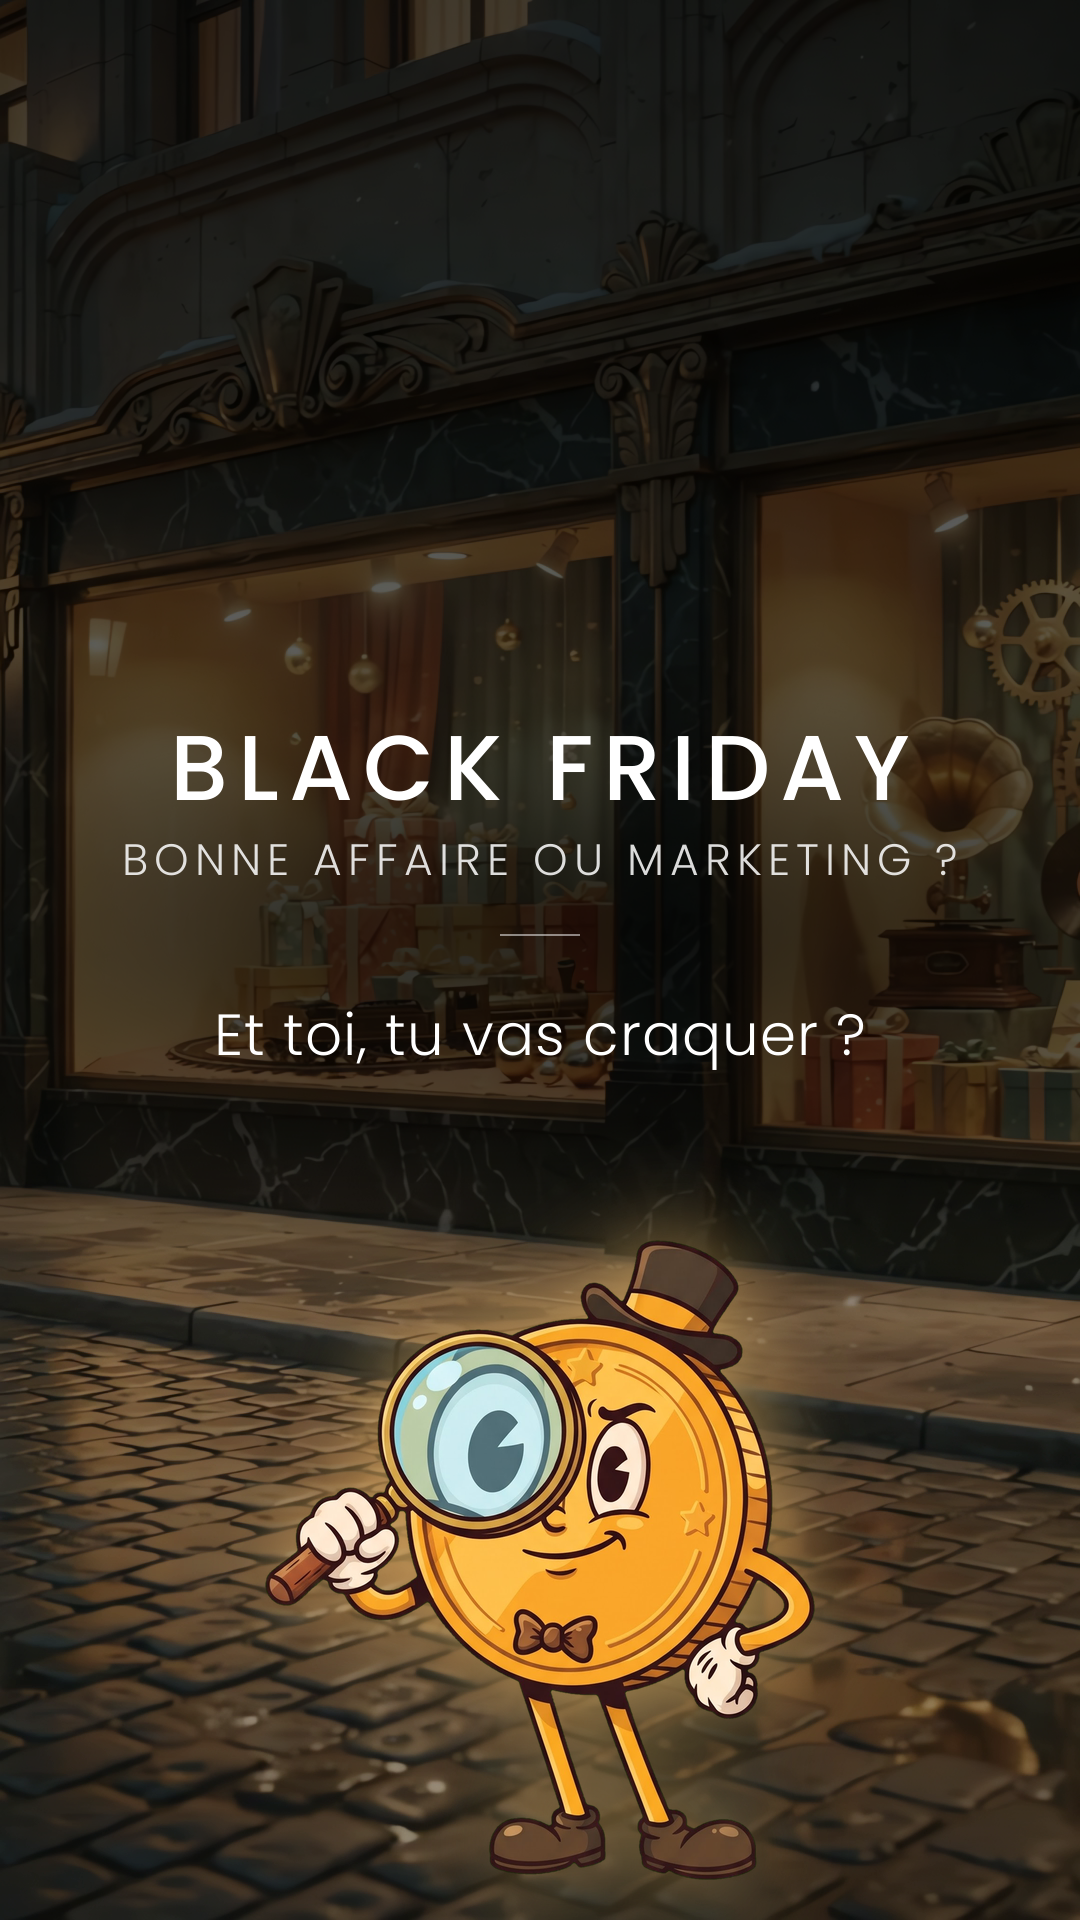
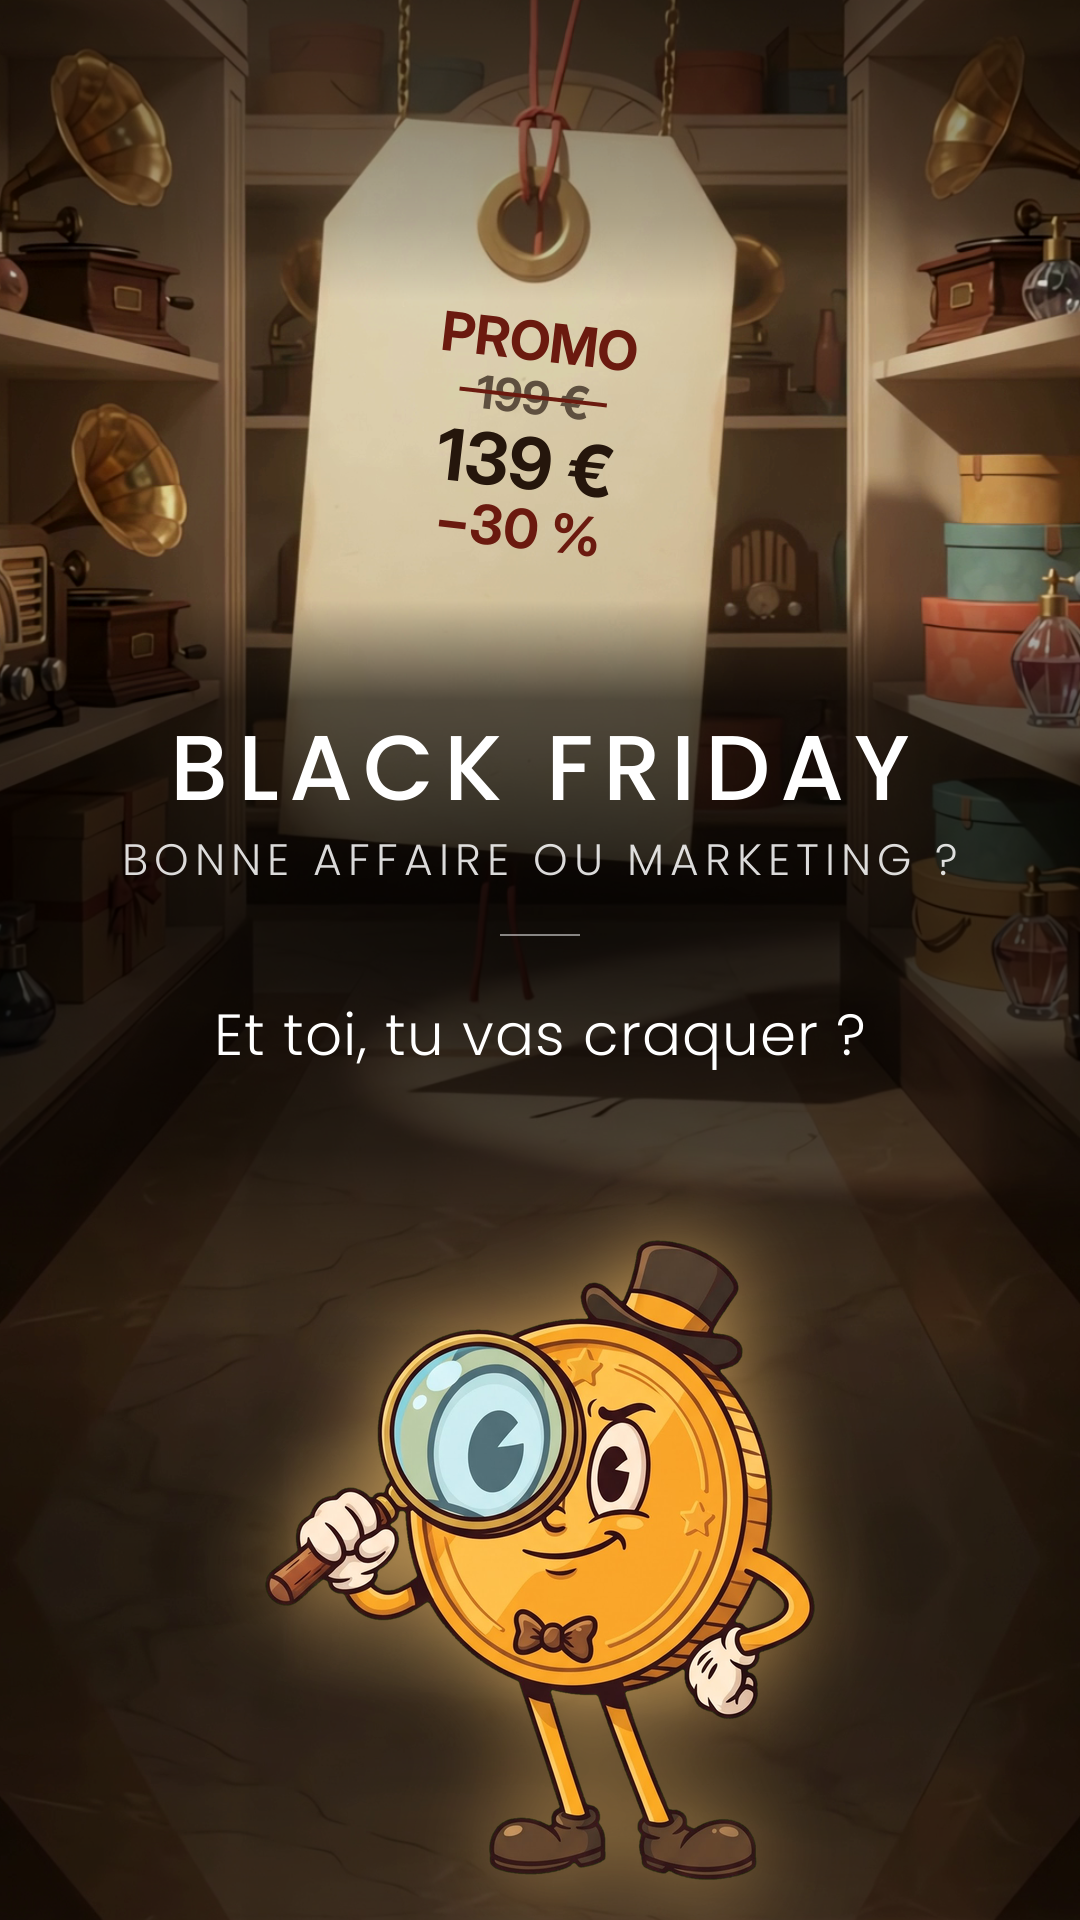
Black Friday : texte de l'étiquette attaché à son mouvement, marche de Mister Coin toujours vers l'avant, couverture sur le gros plan de l'étiquette
Claude-Session: https://claude.ai/code/session_01WbC6ATVQ9ekwYf3mZ5UyiW

diff --git a/episodes/2026-11-25_black_friday/video_col.py b/episodes/2026-11-25_black_friday/video_col.py
@@ -72,6 +72,8 @@ def decor_c(name, t):
     g = cv2.resize(cv2.cvtColor(f, cv2.COLOR_BGR2RGB), (W, H), interpolation=cv2.INTER_LANCZOS4).astype(np.float32)
     if name in ZOOM_TOP:                                                               # agrandi depuis le haut : le plateau descend sous les sous-titres
         z = ZOOM_TOP[name]; g = cv2.resize(g, (int(W*z), int(H*z)), interpolation=cv2.INTER_LINEAR); x0 = (g.shape[1]-W)//2; g = g[:H, x0:x0+W]
+    if name in ZOOM_BOTTOM:                                                            # agrandi depuis le bas : l'étiquette remonte au-dessus des sous-titres
+        z = ZOOM_BOTTOM[name]; g = cv2.resize(g, (int(W*z), int(H*z)), interpolation=cv2.INTER_LINEAR); x0 = (g.shape[1]-W)//2; g = g[g.shape[0]-H:, x0:x0+W]
     g = g+.2*(g-cv2.GaussianBlur(g, (0, 0), 1.0))                               # légère accentuation (décors déjà agrandis par Real-ESRGAN)
     return np.clip((g-128)*1.06+130, 0, 255)
 @functools.lru_cache(maxsize=1)
@@ -281,7 +283,7 @@ def _glass_bar(cv, t, t0, parts, cy=700, w=920, h=400, note=None, head=None):
             x += L*fr
         if note: S.text(kk, note, ww/2, hh-24, 'sb', 28, S.ICE, 'c', .8*ent(k-.6, .3))
     S.tp(cv, w, h, d, 540, cy+30*(1-ent(k, .45)), 'or', rx=round(.05+.25*(1-ent(k, .45)), 3), bev=30)
-LETTERBOX = {}; ZOOM_TOP = {'enquete': 1.06}; NMAX = {'enquete': 140}       # bureau : on s'arrête avant que le travelling ne descende le plateau trop bas                                # décors sortis en paysage à recadrer (aucun : le notaire a été refait en 9:16)
+LETTERBOX = {}; ZOOM_TOP = {'enquete': 1.06}; NMAX = {'enquete': 140}; ZOOM_BOTTOM = {'rayon': 1.12}       # bureau : on s'arrête avant que le travelling ne descende le plateau trop bas                                # décors sortis en paysage à recadrer (aucun : le notaire a été refait en 9:16)
 GOLDC = ('FFE27A', 'B97A12'); REDC = ('FFFFFF', 'BDB6C8');   # pas de rouge dans le verre (21/11) : blanc
 MINTC = ('9DF2B5', '2E8B57'); GREYC = ('C9C2D6', '6E6680')
 def num(v, d=0): return f"{v:,.{d}f}".replace(',', ' ').replace('.', ',').replace(' ', NB)
@@ -400,6 +402,7 @@ def sectors(cv, t, t0, t1, cy=780):
     glass_card(cv, t, t0, d, cy=cy, w=900, h=290, t1=t1)
     for i, (e, lab, v, cc, ta) in enumerate(rows):
         if t > ta and (t1 is None or t < t1): EMO.append((e, 540-450+150+i*300, cy-145+95, 56, ent(t-ta, .3)*(1-ent(t-(t1-.3), .3) if t1 else 1)))
+import json
 # ================= étiquette de prix géante du rayon (suivie dans le décor) =================
 _TAG = {}
 def tag_box(arr, t):
@@ -414,22 +417,57 @@ def tag_box(arr, t):
         _TAG[k] = None if j is None else tuple(int(v*4) for v in (st[j, 0], st[j, 1], st[j, 0]+st[j, 2], st[j, 1]+st[j, 3]))
         if len(_TAG) > 200: _TAG.clear()
     return _TAG[k]
-def tag_text(c, box, t):
-    """inscriptions à l'encre sur l'étiquette : promo affichée, puis la règle des 30 jours"""
-    x0, y0, x1, y1 = box; cx = (x0+x1)/2; w = x1-x0; ys = y0+(y1-y0)*.30; h = (min(y1, 960)-ys)/.5; w = min(w, h*.9)
+def tag_track():
+    """trajectoire lissée de l'étiquette sur tout le passage (décor 60 i/s) : détection image par image puis lissage gaussien (0,1 s),
+    pour que l'inscription suive le balancement de l'étiquette sans trembler ; mise en cache"""
+    p = f'{D}/decors/rayon_etiquette.json'
+    if os.path.exists(p): return np.array(json.load(open(p)), np.float32)
+    a = V.T['rayon']; cap = cv2.VideoCapture(f'{D}/decors/hd/rayon_{a:.2f}.mp4'); B = []
+    while True:
+        ok, f = cap.read()
+        if not ok: break
+        _TAG.clear(); b = tag_box(cv2.cvtColor(f, cv2.COLOR_BGR2RGB), 0); B.append(b if b else (B[-1] if B else (0, 0, 0, 0)))
+    B = np.array(B, np.float32); from scipy.ndimage import gaussian_filter1d as G
+    cx, y0 = G((B[:, 0]+B[:, 2])/2, 5, mode='nearest'), G(B[:, 1], 5, mode='nearest')          # position : suit le balancement
+    w, h = G(B[:, 2]-B[:, 0], 24, mode='nearest'), G(B[:, 3]-B[:, 1], 24, mode='nearest')     # taille : ne suit que le travelling (pas de « pompage » des lettres)
+    B = np.stack([cx-w/2, y0, cx+w/2, y0+h], 1); json.dump(B.tolist(), open(p, 'w')); return B
+_TT = None
+def tag_box_lisse(t):
+    global _TT
+    if _TT is None: _TT = tag_track()
+    i = int(round((t-V.T['rayon'])*60)); x0, y0, x1, y1 = _TT[min(len(_TT)-1, max(0, i))]; z = ZOOM_BOTTOM['rayon']
+    return (W/2+(x0-W/2)*z, H-(H-y0)*z, W/2+(x1-W/2)*z, H-(H-y1)*z)               # même agrandissement que le décor
+TAG0 = (586, 833, 340)                     # étiquette sur la 1re image du décor (centre x, haut du texte sous l'œillet, largeur), repère du décor non agrandi
+_TM = None
+def tag_matrix(t):
+    """déplacement de l'étiquette depuis la 1re image (similitude : glissement, balancement, travelling), suivi par points sur toutes les images
+    du décor 60 i/s (decors/rayon_etiquette_M.npy), légèrement lissé, puis le même agrandissement que le décor"""
+    global _TM
+    if _TM is None:
+        from scipy.ndimage import gaussian_filter1d as G
+        _TM = G(np.load(f'{D}/decors/rayon_etiquette_M.npy'), 2, axis=0, mode='nearest')
+    i = int(round((t-V.T['rayon'])*60)); m = _TM[min(len(_TM)-1, max(0, i))]; z = ZOOM_BOTTOM['rayon']
+    Z = np.array([[z, 0, W/2*(1-z)], [0, z, H*(1-z)], [0, 0, 1]]); return Z@np.vstack([m, [0, 0, 1]])
+def tag_text(c, t):
+    """inscriptions à l'encre, attachées à l'étiquette (elles bougent exactement avec elle) : promo affichée, puis la règle des 30 jours.
+    Tailles choisies pour rester au-dessus des sous-titres (y < 935) pendant tout le travelling."""
+    M = tag_matrix(t); c.save(); c.transform(cairo.Matrix(M[0, 0], M[1, 0], M[0, 1], M[1, 1], M[0, 2], M[1, 2]))
+    cx, ys, w = TAG0; mw = w*.84
     a1 = ent(t-sh(38.6), .3)*(1-ent(t-sh(47.3), .3)); a2 = ent(t-sh(47.6), .3)*(1-ent(t-(V.T['enquete']-.6), .3))
     if a1 > 0:
-        ys += h*.02; ink(c, "PROMO", cx, ys, w*.21, '7A1E12', a=a1, maxw=w*.8)
-        ink(c, "199 €", cx, ys+h*.13, w*.16, '6B5A48', a=a1, maxw=w*.8)
-        c.set_line_width(max(4, w*.015)); col(c, '7A1E12', a1); c.move_to(cx-w*.22, ys+h*.13); c.line_to(cx+w*.22, ys+h*.13); c.stroke()
-        ink(c, "139 €", cx, ys+h*.28, w*.25, '2B1A0E', a=a1, maxw=w*.8)
-        ink(c, "−30 %", cx, ys+h*.43, w*.19, '7A1E12', a=a1, maxw=w*.8)
+        P = 44
+        ink(c, "PROMO", cx, ys+P*.5, P*.95, '7A1E12', a=a1, maxw=mw)
+        ink(c, "199 €", cx, ys+P*1.5, P*.8, '6B5A48', a=a1, maxw=mw)
+        c.set_line_width(P*.07); col(c, '7A1E12', a1); c.move_to(cx-P*1.3, ys+P*1.5); c.line_to(cx+P*1.3, ys+P*1.5); c.stroke()
+        ink(c, "139 €", cx, ys+P*2.65, P*1.25, '2B1A0E', a=a1, maxw=mw)
+        ink(c, "−30 %", cx, ys+P*3.8, P*.95, '7A1E12', a=a1, maxw=mw)
     if a2 > 0:
-        ink(c, "PRIX BARRÉ", cx, ys, w*.15, '7A1E12', a=a2, maxw=w*.84)
-        ink(c, "=", cx, ys+h*.1, w*.12, '2B1A0E', a=a2)
-        ink(c, "le plus bas", cx, ys+h*.2, w*.125, '2B1A0E', a=a2, maxw=w*.84)
-        ink(c, "des 30", cx, ys+h*.31, w*.18, '2B1A0E', a=a2, maxw=w*.84)
-        ink(c, "derniers jours", cx, ys+h*.42, w*.12, '2B1A0E', a=a2, maxw=w*.84)
+        P = 41
+        ink(c, "PRIX BARRÉ =", cx, ys+P*.5, P*.85, '7A1E12', a=a2, maxw=mw)
+        ink(c, "le plus bas", cx, ys+P*1.55, P*.8, '2B1A0E', a=a2, maxw=mw)
+        ink(c, "des 30", cx, ys+P*2.65, P*1.1, '2B1A0E', a=a2, maxw=mw)
+        ink(c, "derniers jours", cx, ys+P*3.75, P*.8, '2B1A0E', a=a2, maxw=mw)
+    c.restore()
 # ================= courbe d'historique de prix (réflexe 2) =================
 def price_chart(cv, t, t0, t1, cy=640):
     """prix stable à 139 € pendant un mois, gonflé à 199 € la veille, puis « −30 % » : on retombe au même prix"""
@@ -483,8 +521,7 @@ def b_hall(cv, c, t, k):
     if t > sh(34.6): sectors(cv, t, sh(34.65), V.T['rayon'], cy=520)
 # ================= 3. rayon : vraies ou fausses promos =================
 def b_rayon(cv, c, t, k):
-    t0 = V.T['rayon']; arr = np.asarray(cv.convert('RGB')); box = tag_box(arr, t)
-    if box: tag_text(c, box, t)
+    t0 = V.T['rayon']; tag_text(c, t)
     if t > sh(44.4) and t < sh(47.4):
         value_card(cv, t, sh(44.45), sh(47.4), "BLACK FRIDAY 2025 · 314 SITES CONTRÔLÉS", f"30{NB}%", [(sh(44.5), "des promos hors des règles (Commission européenne)")], cy=300, h=230, vsize=96)
 # ================= 4. bureau d'enquêteur : penser comme un investisseur =================

diff --git a/mister_coin/veo_coin.py b/mister_coin/veo_coin.py
@@ -47,9 +47,10 @@ def _key(a):
     return a, al
 
 class VeoCoin:
-    def __init__(self, planning, voix=None, x=500, pieds=1725, largeur_piece=220, dossier=V, duree=None, lisse=False, variete=8.0, silence_min=10, coupe_silence=False):
+    def __init__(self, planning, voix=None, x=500, pieds=1725, largeur_piece=220, dossier=V, duree=None, lisse=False, variete=8.0, silence_min=10, coupe_silence=False, boucle=()):
         """planning : (t0, clip, mode) ; mode 'une' (joué une fois) ou 'voix' (il parle quand la voix parle, se tait dans les silences)"""
         self.lisse = lisse; self.variete, self.silence_min = variete, silence_min; self.coupe_silence = coupe_silence      # coupe_silence : dans un silence, petit saut vers une pose muette au lieu de rejouer des images où il parle      # variete : secondes minimum entre deux changements de clip « pour varier » (mode lisse)
+        self.boucle = set(boucle)                       # clips de marche : toujours joués vers l'avant, bouclés sur une pose identique (jamais d'aller-retour : il marcherait à reculons)
         self.plan = sorted(planning); self.x, self.feet, self.cw, self.dir = x, pieds, largeur_piece, dossier
         self.speak = None
         if voix:
@@ -224,13 +225,20 @@ class VeoCoin:
                 out.append((cur, p, fc, fp, max(0., w)))
             else: out.append((cur, p, cur, p, 0.))
             used[cur][p] = s; since += 1; n = info[cur][2]
-            if inside:
+            if inside and cur in self.boucle:
+                a, b = inside[0]; d = 1
+                if p+1 > b:                                                   # fin de la plage : retour sur l'image la plus proche de la pose actuelle (cycle de marche)
+                    q = min(range(a, max(a+1, b-11)), key=lambda q: D(cur, p, cur, q)); p = q+1 if q+1 <= b else a
+                else: p += 1
+            elif inside:
                 a, b = inside[0]
                 if p+d > b or p+d < a: d = -d
                 p = int(min(b, max(a, p+d)))
             else:
                 mid = [(abs(p-(a if p < a else b)), (a if p < a else b)) for a, b in tg]; goal = min(mid)[1]
-                d = 1 if goal > p else -1; p = int(min(n-1, max(0, p+d)))
+                d = 1 if goal > p else -1
+                if cur in self.boucle and d < 0: p = p+1 if p+1 < n and D(cur, p+1, cur, goal) > THR else goal   # marche : on avance jusqu'à une pose proche de la pose neutre, puis coupe invisible
+                else: p = int(min(n-1, max(0, p+d)))
         self.seq['g'] = (S0, out); self.hops = [h/CLIP_FPS for h in hops]; return self.seq['g']
     def hop_dy(self, t):
         """décalage vertical du petit saut sur place (négatif = vers le haut) ; à ajouter à la position des pieds"""

diff --git a/episodes/2026-11-25_black_friday/couverture.py b/episodes/2026-11-25_black_friday/couverture.py
@@ -1,4 +1,4 @@
-"""Couverture du Black Friday (style maison, lib/cards_lib.py) : vitrines du grand magasin au crépuscule assombries, titre « BLACK FRIDAY »,
+"""Couverture du Black Friday (style maison, lib/cards_lib.py) : gros plan du rayon et de l'étiquette géante « PROMO 199 € barré, 139 €, −30 % » (image de la vidéo), titre « BLACK FRIDAY »,
 sous-titre « BONNE AFFAIRE OU MARKETING ? », question « Et toi, tu vas craquer ? », Mister Coin à la loupe en bas avec un halo doré."""
 import cairo, numpy as np, sys, os, subprocess
 HERE = os.path.dirname(os.path.abspath(__file__)); ROOT = os.path.abspath(os.path.join(HERE, '..', '..'))
@@ -12,12 +12,15 @@ def still(src, n, dst):
         subprocess.run(['ffmpeg', '-loglevel', 'error', '-y', '-i', src, '-vf', f'select=eq(n\\,{n})', '-vframes', '1', dst], check=True)
     return Image.open(dst).convert('RGB')
 def bg(c):
-    _sr = f'{HERE}/decors/sr/decor_vitrine.mp4'; d = still(_sr if os.path.exists(_sr) else f'{HERE}/decors/decor_vitrine.mp4', 120, f'{TMP}/vitrine_couv{"_sr" if os.path.exists(_sr) else ""}.png').resize((W, H), Image.LANCZOS)
-    arr = np.asarray(d.convert('RGB')).astype(np.float32); y = np.arange(H)[:, None, None]
-    dark = np.interp(y, [0, 650, 1120, 1320, H], [.72, .62, .58, .25, .4])
+    sys.path.insert(0, HERE); import video_col as VCOL
+    arr = VCOL.raw_bg(TC).astype(np.float32)                                                   # décor 60 i/s + inscription de l'étiquette, sans sous-titres ni Mister Coin
+    S = 360; arr = np.concatenate([arr[S:], arr[::-1][:S]], 0)                                  # remonté : l'étiquette au-dessus du titre (jamais de texte sur du texte)
+    y = np.arange(H)[:, None, None]
+    dark = np.interp(y, [0, 220, 300, 600, 700, 1150, 1320, H], [.55, .3, .12, .12, .62, .62, .3, .45])
     xs = np.arange(W)[None, :, None]; band = np.exp(-((y-930)/170.0)**2)*np.exp(-((xs-540)/520.0)**2); dark = np.clip(dark+.22*band, 0, .9)
     arr *= 1-dark; b = Image.fromarray(arr.astype(np.uint8)).convert('RGBA').tobytes('raw', 'BGRa')
     src = cairo.ImageSurface.create_for_data(bytearray(b), cairo.FORMAT_ARGB32, W, H); c.set_source_surface(src); c.paint()
+TC = float(os.environ.get('TC', 42.4))
 cards.bg = bg
 _put = cards.put
 def _q(c, s_, y, fam, size, *a, **k):

diff --git a/episodes/2026-11-25_black_friday/interp_pan.py b/episodes/2026-11-25_black_friday/interp_pan.py
@@ -1,0 +1,27 @@
+"""Interpolation 60 i/s d'un décor en travelling latéral, sans flux optique : le flux se trompe sur les textures répétitives
+(pavés, vitrines) et fait scintiller l'image. Ici, chaque image intermédiaire mélange les deux images voisines recalées
+sur le décalage mesuré entre elles (corrélation de phase) : mouvement continu, sans déchirure.
+python3 interp_pan.py <nom> <clé hd> <durée> <vitesse> <départ>   (décor decors/sr/decor_<nom>.mp4 -> decors/hd/<clé>.mp4)"""
+import os, sys, subprocess, cv2, numpy as np
+D = os.path.dirname(os.path.abspath(__file__))
+def run(name, key, dur, sp, start):
+    cap = cv2.VideoCapture(f'{D}/decors/sr/decor_{name}.mp4'); fr = []
+    while True:
+        ok, f = cap.read()
+        if not ok: break
+        fr.append(f)
+    g = [cv2.cvtColor(f, cv2.COLOR_BGR2GRAY).astype(np.float32) for f in fr]
+    win = cv2.createHanningWindow(g[0].shape[::-1], cv2.CV_32F)
+    sh = [cv2.phaseCorrelate(g[i], g[i+1], win)[0] for i in range(len(g)-1)]
+    sx = np.array([s[0] for s in sh]); sy = np.array([s[1] for s in sh])
+    k = np.ones(5)/5; sx = np.convolve(np.pad(sx, 2, 'edge'), k, 'valid'); sy = np.convolve(np.pad(sy, 2, 'edge'), k, 'valid')   # décalage lissé
+    h, w = fr[0].shape[:2]; out = f'{D}/decors/hd/{key}.mp4'
+    ff = subprocess.Popen(['ffmpeg', '-y', '-loglevel', 'error', '-f', 'rawvideo', '-pix_fmt', 'bgr24', '-s', f'{w}x{h}', '-r', '60', '-i', '-',
+                           '-c:v', 'libx264', '-crf', '10', '-preset', 'medium', '-pix_fmt', 'yuv420p', out+'.tmp.mp4'], stdin=subprocess.PIPE)
+    def shift(img, dx, dy): return cv2.warpAffine(img, np.float32([[1, 0, dx], [0, 1, dy]]), (w, h), flags=cv2.INTER_CUBIC, borderMode=cv2.BORDER_REFLECT)
+    for n in range(int((dur+.7)*60)):
+        s = start*24+n/60*24*sp; i = min(int(s), len(fr)-2); u = min(1.0, s-i)
+        a = shift(fr[i], sx[i]*u, sy[i]*u).astype(np.float32); b = shift(fr[i+1], -sx[i]*(1-u), -sy[i]*(1-u)).astype(np.float32)
+        ff.stdin.write(np.clip(a*(1-u)+b*u, 0, 255).astype(np.uint8).tobytes())
+    ff.stdin.close(); ff.wait(); os.replace(out+'.tmp.mp4', out); print('ok', key)
+if __name__ == '__main__': run(sys.argv[1], sys.argv[2], float(sys.argv[3]), float(sys.argv[4]), float(sys.argv[5]))

diff --git a/episodes/2026-11-25_black_friday/video.py b/episodes/2026-11-25_black_friday/video.py
@@ -54,7 +54,7 @@ DOIGTS, LOUPE = 'classique_parle_compte_doigts', 'classique_loupe_parle'        
 SW, CP, BI = 'classique_danse_parle_swing', 'classique_danse_parle_compte', 'classique_danse_parle_billets'     # il marche sur place, de face, en parlant (travellings)
 MC = VeoCoin([(0.0, [QU], 'voix'), (7.3, [EX], 'voix'), (T['hall'], [SW], 'voix'), (30.8, [CP], 'voix'), (T['rayon'], [CO], 'voix'),
               (T['enquete'], [DOIGTS], 'voix'), (61.1, [LOUPE], 'voix'), (67.75, [DOIGTS], 'voix'), (T['vitrine'], [PR], 'voix'), (77.15, [QU], 'voix')],
-             voix=VOICE, duree=DUR, x=540, pieds=FEET, largeur_piece=170, lisse=True, variete=1.5, silence_min=7, coupe_silence=True)
+             voix=VOICE, duree=DUR, x=540, pieds=FEET, largeur_piece=170, lisse=True, variete=1.5, silence_min=7, coupe_silence=True, boucle=(SW, CP, BI, PR))
 ASSIS = (T['enquete'], T['vitrine'])                                       # passage assis : pieds pendants sous le bord du bureau
 RX, RX_FIN = [], []                                                        # pas de silence de réaction (voix gardée telle quelle, 80 s maximum)
 def events(): return sorted([(h-.05, 'hop') for h in (MC._global_sequence() and MC.hops)])

diff --git a/docs/retours.md b/docs/retours.md
@@ -19,7 +19,8 @@ Ce fichier garde l'essentiel de ce que Nicolas a validé, refusé ou corrigé, p
 - Photo d'une personne réelle : fournie par Nicolas, posée dans un cadre Polaroïd avec une courte fiche (Ellison, 20/11).
 - Le verre 3D translucide (`lib/verre_epais.py`) est notre signature pour afficher les informations, y compris dans une DA dédiée comme GTA (17/11).
 - Il pousse vers le spectaculaire quand une scène est plate : le zoom « 1 chance sur 19 068 840 » a été refait cinq fois (grille plate → perspective, personnages → foule de Mister Coin, cible joyeuse et rieuse au milieu de pièces inquiètes, halo rond et non carré, éclairages de projecteurs). Viser d'emblée ce niveau.
-- Travelling : Mister Coin marche de face en parlant (clips `danse_parle_*`, marche sur place), jamais de dos (23/11, Black Friday).
+- Travelling : Mister Coin marche de face en parlant (clips `danse_parle_*`, marche sur place), jamais de dos (23/11, Black Friday). Ces clips se jouent toujours vers l'avant (`VeoCoin(..., boucle=(...))`) : en aller-retour il marche à reculons et la scène paraît « glitchée » (24/11).
+- Texte posé sur un objet mobile du décor (étiquette) : trajectoire suivie sur toutes les images du décor 60 i/s puis lissée, taille liée au seul travelling ; jamais une détection par image arrondie (le texte tremble, 24/11).
 - Clips assis (`parle_compte_doigts`, `loupe_parle`) : posé au bord d'un objet, jambes pendantes ; décalage pièce-pieds mesuré par clip et bord suivi image par image pendant le travelling, sinon il flotte (23/11).
 - Mister Coin posé sur les objets du décor (debout sur le comptoir) plutôt que flottant devant.
 - Objets du réel conformes à la réalité : une seule boule rouge (numéro chance) au Loto, cinq blanches.
